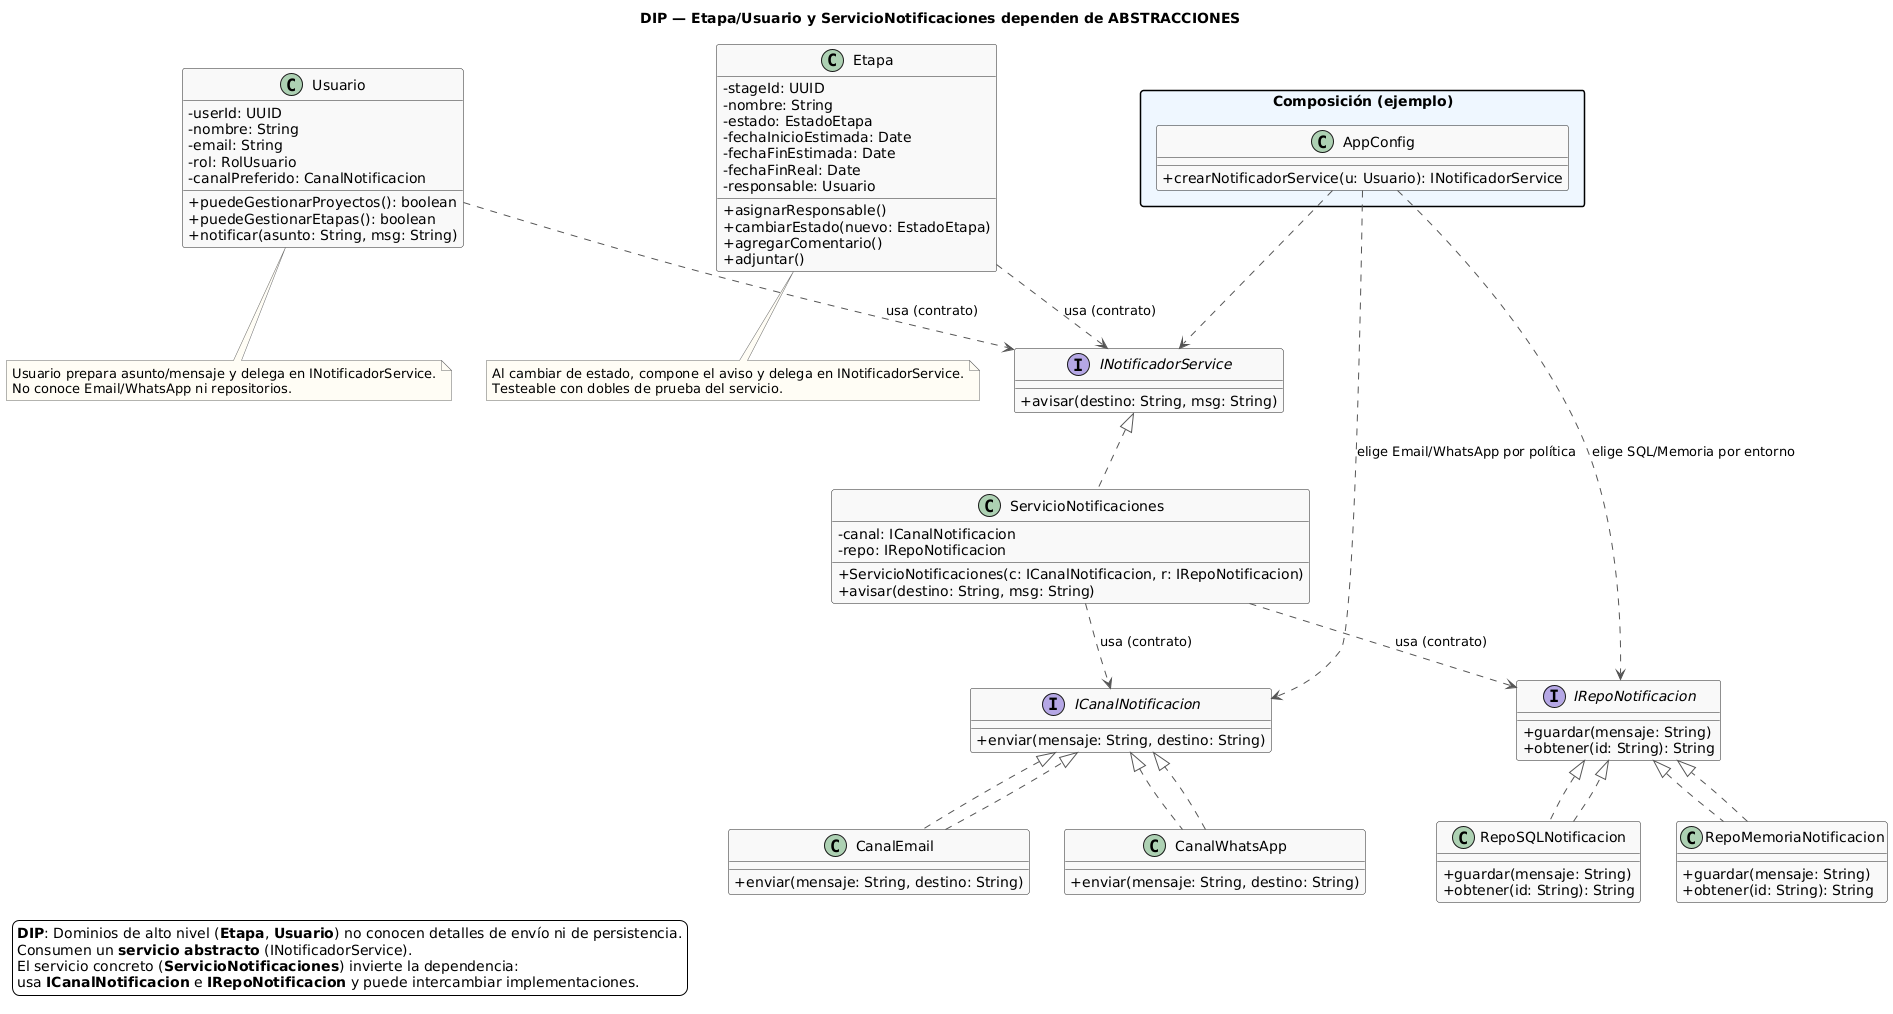
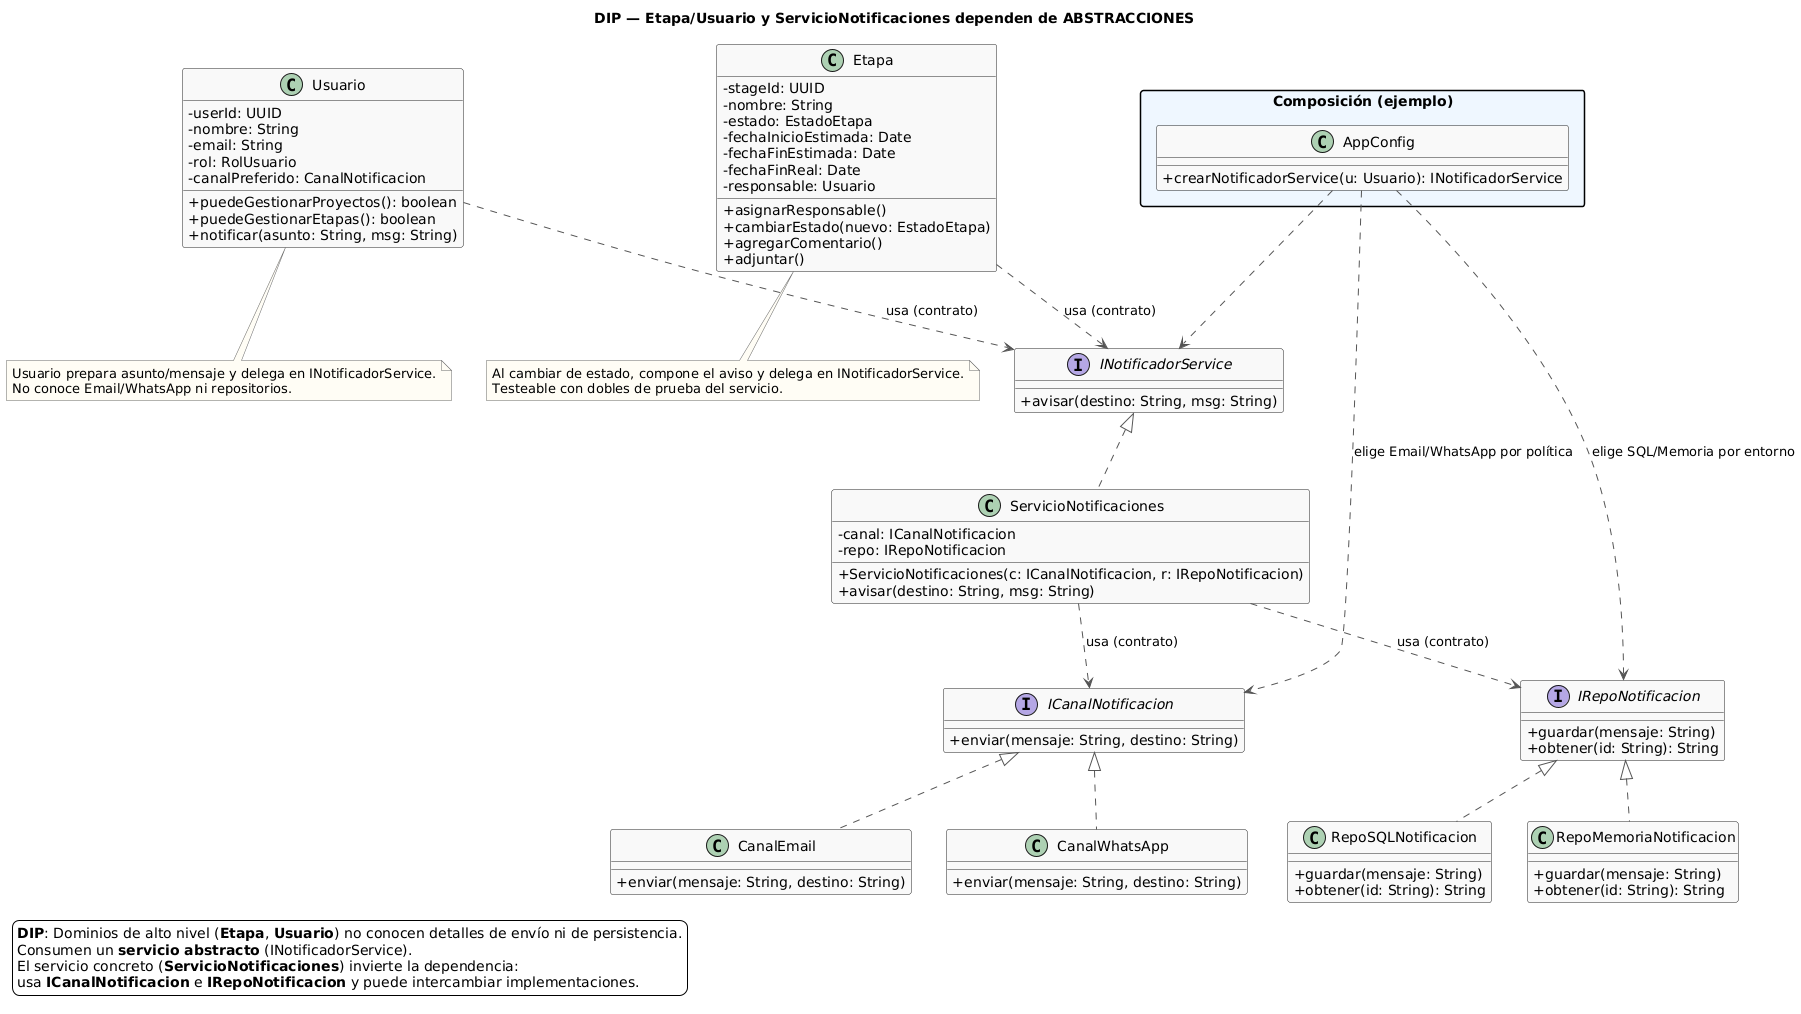
correccion de diagrama DIP y .md de DIP

diff --git a/anexos/principios-solid/05-dip.md b/anexos/principios-solid/05-dip.md
@@ -12,6 +12,17 @@ Al depender de abstracciones y no de implementaciones concretas, el sistema gana
 - Testeabilidad: facilita el testing
 - Evolución: permite agregar nuevas funcionalidades
 - Mantenimiento: el código termina siendo más limpio, lo que facilita su mantenimiento futuro
+
+### Ejemplo del proyecto (problema y cómo lo resuelve DIP)
+
+Al cambiar de estado una **Etapa** o al notificar desde **Usuario**, el dominio **instanciaba clases concretas** como `CanalWhatsApp` y `RepoSQLNotificacion`.  
+Esto acoplaba la lógica de negocio a detalles de infraestructura, hacía difícil testear (no se podían usar dobles de prueba sin tocar el dominio) y encarecía cambiar de canal (Email/WhatsApp) o de persistencia (SQL/Memoria).
+
+**Aplicación de DIP:** Invertimos la dependencia: el **Dominio** depende de **abstracciones** y los detalles implementan esas abstracciones.  
+- En **Dominio**: `INotificadorService` expone `avisar(destino, msg)`. **Etapa** y **Usuario** reciben por inyección un `INotificadorService` y **no** crean canales/repos concretos.  
+- En **Infraestructura**: `ServicioNotificaciones` **implementa** `INotificadorService` y delega en `ICanalNotificacion` (`CanalEmail`, `CanalWhatsApp`) y `IRepoNotificacion` (`RepoSQLNotificacion`, `RepoMemoriaNotificacion`).
+
+**Beneficios concretos.** ↓ acoplamiento del dominio, ↑ testeabilidad (mocks/fakes de `INotificadorService`) y **flexibilidad** para agregar un canal nuevo (p. ej., otro `ICanalNotificacion`) sin modificar **Etapa** ni **Usuario**.
  
 ## Explicación de Clases Abstractas e Interfaces:
 Una clase abstracta es una clase que no se puede instanciar directamente y sirve como plantilla para otras subclases. Características principales:
